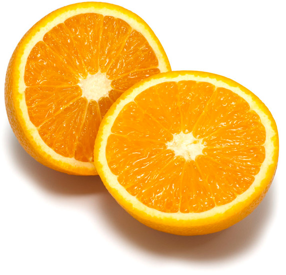
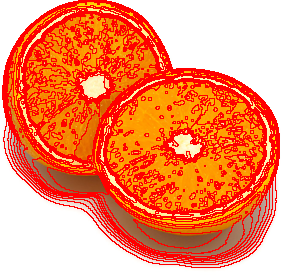
fix k means

diff --git a/lab3.py b/lab3.py
@@ -24,27 +24,32 @@ def kmeans_segm(image, K, L, seed=42):
     flatten = np.reshape(image, (-1, 3))
     segmentation = flatten
     np.random.seed(seed)
-    randoms = np.random.randint(low=0, high=np.shape(flatten)[0], size=K)
-    centers = flatten[randoms, :]
+    # centers = np.random.rand(K, 3) * 255.0
+    spectre = np.unique(flatten, axis=0)
+    randoms = np.random.randint(low=0, high=np.shape(spectre)[0], size=K)
+    centers = spectre[randoms, :]
+    old_centers = np.zeros(np.shape(centers))
+    # movements = np.zeros(L)
     # for i in range(K):
     #     centers[i, :] = flatten[randoms[i]]
-
+    converge = 0
     for i in range(L):
         dists = distance_matrix(flatten, centers)
-        oldCenters = centers
-
-        segmentation = np.argmin(dists,1)
+        # movements[i] = sum(np.min(dists, axis=1))   # pixels
+        segmentation = np.argmin(dists,1)   # pixels
+        # plt.hist(segmentation)
+        # plt.show()
         for center in range(K):
+            old_centers[center, :] = centers[center, :]
             cluster_points = np.nonzero(segmentation == center)
             cluster_points = np.reshape(cluster_points, (-1))
             # print(cluster_points)
             mean = np.mean(flatten[cluster_points])
             centers[center, :] = mean
-
-        if np.max(np.abs(oldCenters - centers)) ==0:
-            print(i)
+        converge = i
+        if np.max(np.max(abs(old_centers - centers))) < 0.01:
             break
-
+    print("Converge at " + str(converge + 1))
     segmentation = np.reshape(segmentation, (np.shape(image)[0], np.shape(image)[1]))
     return segmentation, centers
 

diff --git a/kmeans_example.py b/kmeans_example.py
@@ -19,13 +19,18 @@ def kmeans_example():
     h = ImageFilter.GaussianBlur(image_sigma)
     I = np.asarray(img.filter(ImageFilter.GaussianBlur(image_sigma))).astype(np.float32)
     segm, centers = kmeans_segm(I, K, L, seed)
-    Inew = mean_segments(img, segm)
+    Iseg = mean_segments(img, segm)
     if True:
         Inew = overlay_bounds(img, segm)
 
     img = Image.fromarray(Inew.astype(np.ubyte))
+    plt.subplot(1, 2, 1)
     plt.imshow(img)
     plt.axis('off')
+    plt.subplot(1, 2, 2)
+    plt.imshow(Image.fromarray(Iseg.astype(np.ubyte)))
+    plt.axis('off')
+    plt.title("K=" + str(K))
     plt.show()
     img.save('result/kmeans.png')
 
